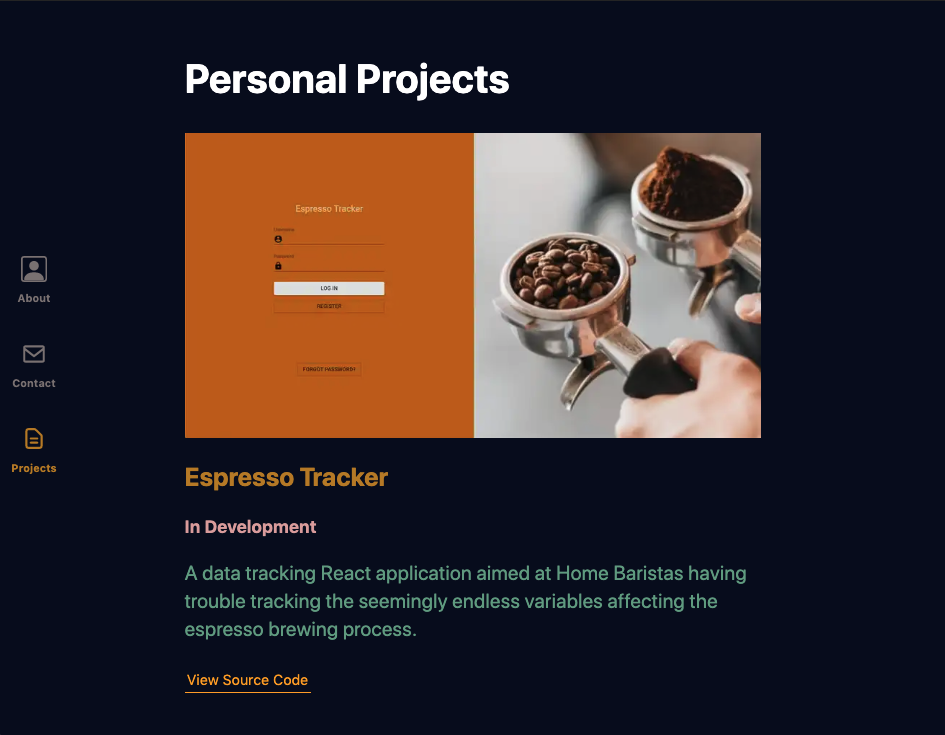
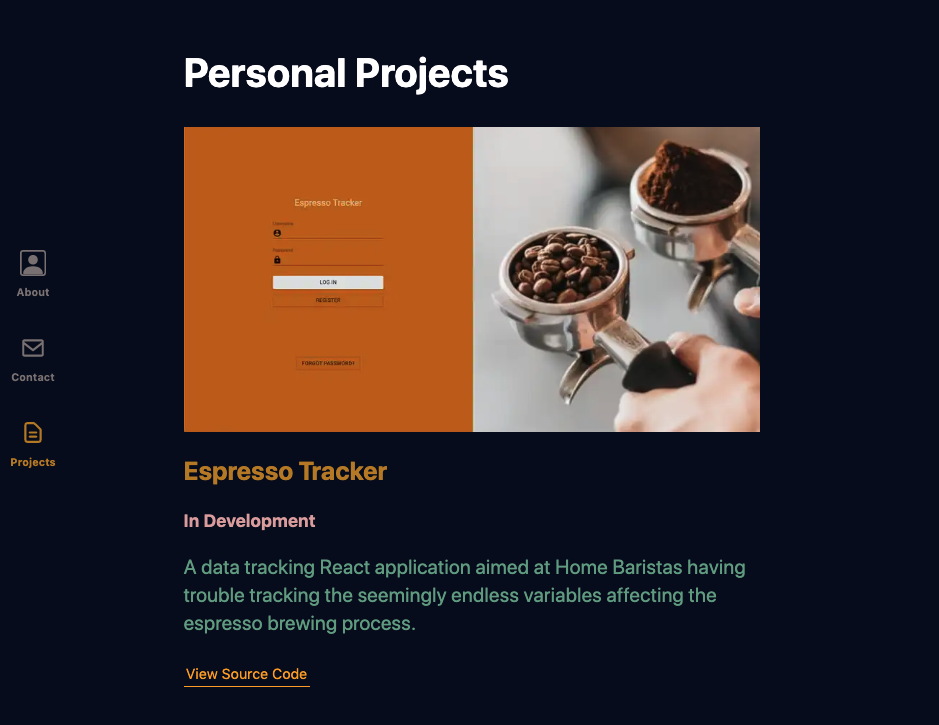
Add final tweaks for deployment

diff --git a/src/components/Navbar.js b/src/components/Navbar.js
@@ -15,7 +15,7 @@ const Navbar = () => {
                     <MenuLink
                         to="/"
                         activeStyle={{
-                            color: '#be8418',
+                            color: '#c46404',
                         }}
                     >
                         <BsPersonSquare size={32} />
@@ -25,7 +25,7 @@ const Navbar = () => {
                     <MenuLink
                         to="/contact/"
                         activeStyle={{
-                            color: '#be8418',
+                            color: '#c46404',
                         }}
                     >
                         <BiEnvelope size={32} />
@@ -35,7 +35,7 @@ const Navbar = () => {
                     <MenuLink
                         to="/projects/"
                         activeStyle={{
-                            color: '#be8418',
+                            color: '#c46404',
                         }}
                     >
                         <HiOutlineDocumentText size={32} />

diff --git a/src/pages/index.js b/src/pages/index.js
@@ -12,11 +12,8 @@ export default () => (
             disciplined and creative software engineer.
         </p>
         <p>
-            I recently graduated{' '}
-            <Hyperlink href="https://www.manchestercodes.com/">
-                Coding Bootcamp
-            </Hyperlink>{' '}
-            and am actively searching for a Junior Developer role.
+            I recently graduated <strong>Coding Bootcamp</strong> and am
+            actively searching for a Junior Developer role.
         </p>
     </Layout>
 );

diff --git a/gatsby-config.js b/gatsby-config.js
@@ -31,5 +31,11 @@ module.exports = {
                 analyzerMode: 'json',
             },
         },
+        {
+            resolve: 'gatsby-plugin-styled-components',
+            options: {
+                //
+            },
+        },
     ],
 };
